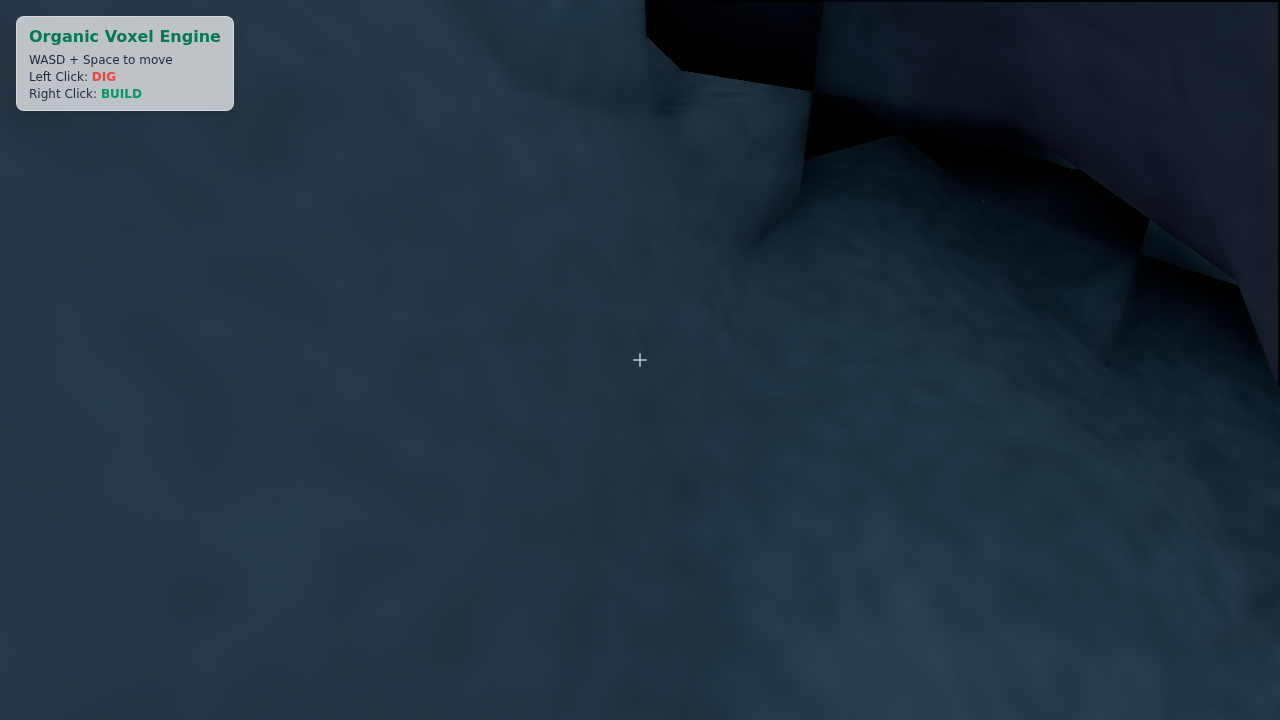
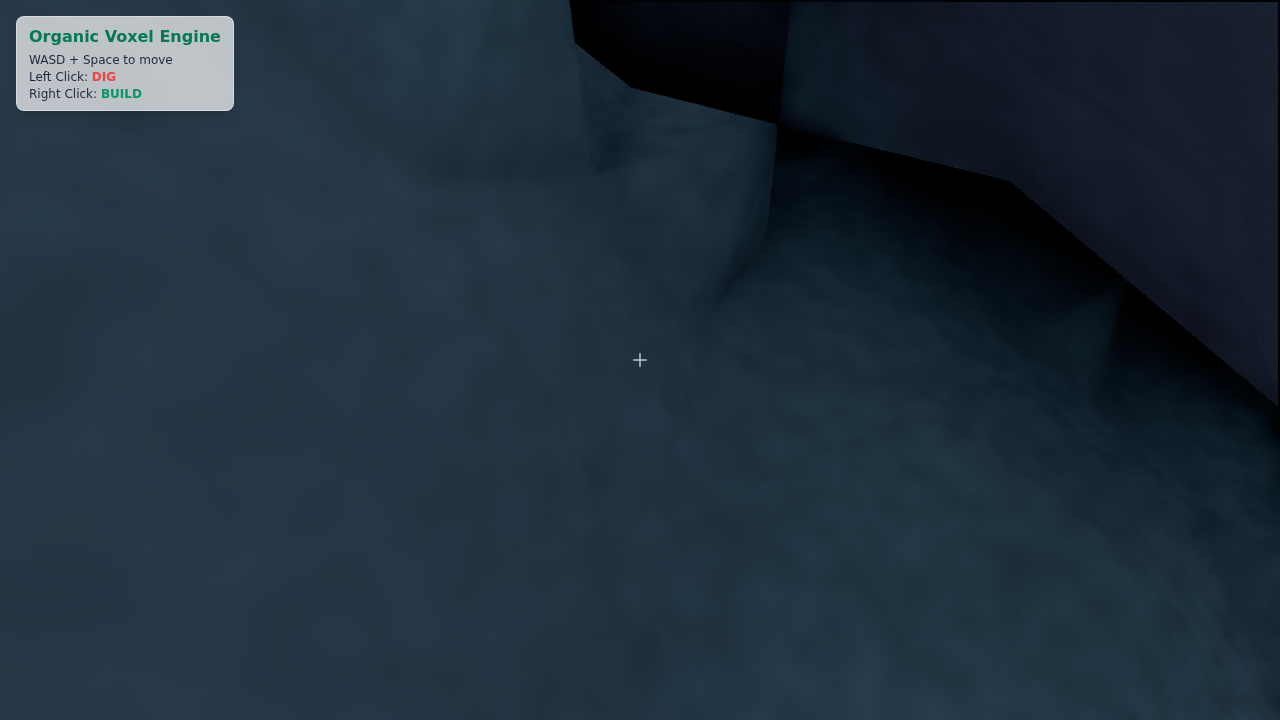
Implement Rounded Domain Warp Splatting for organic terrain transitions

diff --git a/utils/mesher.ts b/utils/mesher.ts
@@ -37,6 +37,7 @@ export function generateMesh(
   const tInds: number[] = [];
   const tMats: number[] = [];
   const tMats2: number[] = [];
+  const tMats3: number[] = [];
   const tWeights: number[] = [];
   const tNorms: number[] = [];
   const tWets: number[] = [];
@@ -151,9 +152,12 @@ export function generateMesh(
               else tNorms.push(0, 1, 0);
 
               // Material Selection (Histogram Analysis)
-              let bestMat = MaterialType.DIRT;
-              let secMat = MaterialType.AIR;
-              let blendWeight = 0.0;
+              let m1 = MaterialType.DIRT;
+              let m2 = MaterialType.AIR;
+              let m3 = MaterialType.AIR;
+              let w1 = 1.0;
+              let w2 = 0.0;
+              let w3 = 0.0;
 
               let bestWet = 0;
               let bestMoss = 0;
@@ -173,39 +177,43 @@ export function generateMesh(
                  }
               }
 
-              // Identify Top 2 Materials
-              let maxCount = 0;
-              let secCount = 0;
-              let matA = 0;
-              let matB = 0;
+              // Identify Top 3 Materials
+              let c1 = 0;
+              let c2 = 0;
+              let c3 = 0;
+              m1 = 0;
+              m2 = 0;
+              m3 = 0;
 
               for (let m = 1; m < 16; m++) {
                   const c = matCounts[m];
-                  if (c > maxCount) {
-                      // Demote current max to second
-                      secCount = maxCount;
-                      matB = matA;
-
-                      maxCount = c;
-                      matA = m;
-                  } else if (c > secCount) {
-                      secCount = c;
-                      matB = m;
+                  if (c > c1) {
+                      // Shift 1->2, 2->3
+                      c3 = c2; m3 = m2;
+                      c2 = c1; m2 = m1;
+                      c1 = c;  m1 = m;
+                  } else if (c > c2) {
+                      // Shift 2->3
+                      c3 = c2; m3 = m2;
+                      c2 = c;  m2 = m;
+                  } else if (c > c3) {
+                      c3 = c;  m3 = m;
                   }
               }
 
-              if (matA !== 0) {
-                  bestMat = matA;
-                  if (matB !== 0) {
-                      secMat = matB;
-                      const total = maxCount + secCount;
-                      if (total > 0) blendWeight = secCount / total;
+              if (m1 !== 0) {
+                  // Normalize Weights
+                  const total = c1 + c2 + c3;
+                  if (total > 0) {
+                      w1 = c1 / total;
+                      w2 = c2 / total;
+                      w3 = c3 / total;
                   }
 
-                  // Find wetness/mossiness for the dominant material
+                  // Find wetness/mossiness for the dominant material (m1)
                   for (const [val, cx, cy, cz] of candidates) {
                      const mat = getMat(material, cx, cy, cz);
-                     if (mat === bestMat && val > bestVal) {
+                     if (mat === m1 && val > bestVal) {
                          bestVal = val;
                          bestWet = getByte(wetData, cx, cy, cz);
                          bestMoss = getByte(mossData, cx, cy, cz);
@@ -214,21 +222,14 @@ export function generateMesh(
               } else {
                  // Fallback if no valid materials found (rare)
                  const mat = getMat(material, Math.round(avgX), Math.round(avgY), Math.round(avgZ));
-                 bestMat = mat || bestMat;
+                 m1 = mat || MaterialType.DIRT;
+                 // Weights remain 1,0,0
               }
 
-              // Canonical Sorting: Ensure smaller ID is always first to prevent interpolation flip-flops
-              // If bestMat (Slot 1) > secMat (Slot 2), swap them and invert the weight.
-              if (bestMat > secMat) {
-                  const tmp = bestMat;
-                  bestMat = secMat;
-                  secMat = tmp;
-                  blendWeight = 1.0 - blendWeight;
-              }
-
-              tMats.push(bestMat);
-              tMats2.push(secMat);
-              tWeights.push(blendWeight);
+              tMats.push(m1);
+              tMats2.push(m2);
+              tMats3.push(m3);
+              tWeights.push(w1, w2, w3);
               tWets.push(bestWet / 255.0);
               tMoss.push(bestMoss / 255.0);
               tVertIdx[bufIdx(x, y, z)] = (tVerts.length / 3) - 1;
@@ -313,7 +314,8 @@ export function generateMesh(
     normals: new Float32Array(tNorms),
     materials: new Float32Array(tMats),
     materials2: new Float32Array(tMats2),
-    blendWeights: new Float32Array(tWeights),
+    materials3: new Float32Array(tMats3),
+    meshWeights: new Float32Array(tWeights),
     wetness: new Float32Array(tWets),
     mossiness: new Float32Array(tMoss),
     // Return empty arrays for water to satisfy types without generating bad mesh

diff --git a/components/TriplanarMaterial.tsx b/components/TriplanarMaterial.tsx
@@ -7,13 +7,15 @@ import { noiseTexture } from '../utils/sharedResources';
 const vertexShader = `
   attribute float aVoxelMat;
   attribute float aVoxelMat2;
-  attribute float aBlend;
+  attribute float aVoxelMat3;
+  attribute vec3 aWeight;
   attribute float aVoxelWetness;
   attribute float aVoxelMossiness;
 
   flat varying float vMaterial1;
   flat varying float vMaterial2;
-  varying float vBlend;
+  flat varying float vMaterial3;
+  varying vec3 vW;
   varying float vWetness;
   varying float vMossiness;
   varying vec3 vWorldPosition;
@@ -22,7 +24,8 @@ const vertexShader = `
   void main() {
     vMaterial1 = aVoxelMat;
     vMaterial2 = aVoxelMat2;
-    vBlend = aBlend;
+    vMaterial3 = aVoxelMat3;
+    vW = aWeight;
     vWetness = aVoxelWetness;
     vMossiness = aVoxelMossiness;
     
@@ -54,7 +57,8 @@ const fragmentShader = `
 
   flat varying float vMaterial1;
   flat varying float vMaterial2;
-  varying float vBlend;
+  flat varying float vMaterial3;
+  varying vec3 vW;
   varying float vWetness;
   varying float vMossiness;
   varying vec3 vWorldPosition;
@@ -147,33 +151,37 @@ const fragmentShader = `
     vec4 nMid = getTriplanarNoise(N, 0.15);
     vec4 nHigh = getTriplanarNoise(N, 0.6);
 
+    // 1. Sample Low-Frequency "Warp" Noise
+    float warp = texture(uNoiseTexture, vWorldPosition * 0.05).r;
+
+    // 2. Distort the Linear Weights
+    vec3 warpedW = vW + (warp - 0.5) * 0.3;
+
+    // 3. Soft-Max Blending
+    vec3 softW = pow(max(warpedW, 0.0), vec3(4.0));
+
+    // 4. Renormalize
+    softW /= (softW.x + softW.y + softW.z + 0.0001);
+
+    // 5. Conditional Sampling & Blending
     MatInfo m1 = getMaterialInfo(vMaterial1, nMid, nHigh);
 
-    vec3 finalBaseCol = m1.baseCol;
-    float finalRoughness = m1.roughness;
-    float finalNoiseFactor = m1.noiseFactor;
+    vec3 finalBaseCol = m1.baseCol * softW.x;
+    float finalRoughness = m1.roughness * softW.x;
+    float finalNoiseFactor = m1.noiseFactor * softW.x;
 
-    if (vBlend > 0.01) {
+    if (softW.y > 0.001) {
         MatInfo m2 = getMaterialInfo(vMaterial2, nMid, nHigh);
+        finalBaseCol += m2.baseCol * softW.y;
+        finalRoughness += m2.roughness * softW.y;
+        finalNoiseFactor += m2.noiseFactor * softW.y;
+    }
 
-        // --- GOLDEN COMMIT LOGIC RESTORED ---
-        // Sample noise for the edge transition (using world position)
-        // High-frequency noise makes the edge jagged
-        float edgeNoise = texture(uNoiseTexture, vWorldPosition * 0.2).r;
-
-        // 1. Center blend around 0
-        float centeredBlend = vBlend - 0.5;
-
-        // 2. Add noise distortion (0.8 is the "Jaggedness" factor)
-        float distortion = (edgeNoise - 0.5) * 0.8;
-
-        // 3. Smoothstep for a sharp but organic cut
-        // This effectively "pushes" the blend to 0 or 1 based on the noise
-        float organicBlend = smoothstep(-0.05, 0.05, centeredBlend + distortion);
-
-        finalBaseCol = mix(m1.baseCol, m2.baseCol, organicBlend);
-        finalRoughness = mix(m1.roughness, m2.roughness, organicBlend);
-        finalNoiseFactor = mix(m1.noiseFactor, m2.noiseFactor, organicBlend);
+    if (softW.z > 0.001) {
+        MatInfo m3 = getMaterialInfo(vMaterial3, nMid, nHigh);
+        finalBaseCol += m3.baseCol * softW.z;
+        finalRoughness += m3.roughness * softW.z;
+        finalNoiseFactor += m3.noiseFactor * softW.z;
     }
 
     float intensity = 0.6 + 0.6 * finalNoiseFactor;

diff --git a/components/VoxelTerrain.tsx b/components/VoxelTerrain.tsx
@@ -25,7 +25,8 @@ interface ChunkState {
   meshIndices: Uint32Array;
   meshMaterials: Float32Array;
   meshMaterials2: Float32Array;
-  meshBlendWeights: Float32Array;
+  meshMaterials3: Float32Array;
+  meshWeights: Float32Array;
   meshNormals: Float32Array;
   meshWetness: Float32Array;
   meshMossiness: Float32Array;
@@ -97,10 +98,16 @@ const ChunkMesh: React.FC<{ chunk: ChunkState; sunDirection?: THREE.Vector3 }> =
         geom.setAttribute('aVoxelMat2', new THREE.BufferAttribute(new Float32Array(vertexCount), 1));
     }
 
-    if (chunk.meshBlendWeights && chunk.meshBlendWeights.length === vertexCount) {
-        geom.setAttribute('aBlend', new THREE.BufferAttribute(chunk.meshBlendWeights, 1));
+    if (chunk.meshMaterials3 && chunk.meshMaterials3.length === vertexCount) {
+        geom.setAttribute('aVoxelMat3', new THREE.BufferAttribute(chunk.meshMaterials3, 1));
     } else {
-        geom.setAttribute('aBlend', new THREE.BufferAttribute(new Float32Array(vertexCount), 1));
+        geom.setAttribute('aVoxelMat3', new THREE.BufferAttribute(new Float32Array(vertexCount), 1));
+    }
+
+    if (chunk.meshWeights && chunk.meshWeights.length === vertexCount * 3) {
+        geom.setAttribute('aWeight', new THREE.BufferAttribute(chunk.meshWeights, 3));
+    } else {
+        geom.setAttribute('aWeight', new THREE.BufferAttribute(new Float32Array(vertexCount * 3), 3));
     }
 
     // Fix: Always provide wetness/mossiness attributes, even if 0, to satisfy shader expectations
@@ -128,7 +135,7 @@ const ChunkMesh: React.FC<{ chunk: ChunkState; sunDirection?: THREE.Vector3 }> =
     geom.computeBoundingSphere();
 
     return geom;
-  }, [chunk.meshPositions, chunk.meshIndices, chunk.meshMaterials, chunk.meshMaterials2, chunk.meshBlendWeights, chunk.meshNormals, chunk.meshWetness, chunk.meshMossiness, chunk.visualVersion]);
+  }, [chunk.meshPositions, chunk.meshIndices, chunk.meshMaterials, chunk.meshMaterials2, chunk.meshMaterials3, chunk.meshWeights, chunk.meshNormals, chunk.meshWetness, chunk.meshMossiness, chunk.visualVersion]);
 
   const waterGeometry = useMemo(() => {
     if (!chunk.meshWaterPositions?.length || !chunk.meshWaterIndices?.length) return null;
@@ -317,7 +324,7 @@ export const VoxelTerrain: React.FC<VoxelTerrainProps> = ({ action, isInteractin
         chunksRef.current[key] = newChunk;
         setChunks(prev => ({ ...prev, [key]: newChunk }));
       } else if (type === 'REMESHED') {
-        const { key, meshPositions, meshIndices, meshMaterials, meshMaterials2, meshBlendWeights, meshNormals, meshWetness, meshMossiness, meshWaterPositions, meshWaterIndices, meshWaterNormals } = payload;
+        const { key, meshPositions, meshIndices, meshMaterials, meshMaterials2, meshMaterials3, meshWeights, meshNormals, meshWetness, meshMossiness, meshWaterPositions, meshWaterIndices, meshWaterNormals } = payload;
         const current = chunksRef.current[key];
         if (current) {
           const updatedChunk = {
@@ -328,7 +335,8 @@ export const VoxelTerrain: React.FC<VoxelTerrainProps> = ({ action, isInteractin
             meshIndices,
             meshMaterials,
             meshMaterials2,
-            meshBlendWeights,
+            meshMaterials3,
+            meshWeights,
             meshNormals,
             meshWetness: meshWetness || current.meshWetness, // Fallback if missing
             meshMossiness: meshMossiness || current.meshMossiness, // Fallback if missing

diff --git a/workers/terrain.worker.ts b/workers/terrain.worker.ts
@@ -31,7 +31,8 @@ ctx.onmessage = (e: MessageEvent) => {
             meshIndices: mesh.indices,
             meshMaterials: mesh.materials,
             meshMaterials2: mesh.materials2,
-            meshBlendWeights: mesh.blendWeights,
+            meshMaterials3: mesh.materials3,
+            meshWeights: mesh.meshWeights,
             meshNormals: mesh.normals,
             meshWetness: mesh.wetness,
             meshMossiness: mesh.mossiness,
@@ -51,7 +52,8 @@ ctx.onmessage = (e: MessageEvent) => {
             mesh.indices.buffer,
             mesh.materials.buffer,
             mesh.materials2.buffer,
-            mesh.blendWeights.buffer,
+            mesh.materials3.buffer,
+            mesh.meshWeights.buffer,
             mesh.normals.buffer,
             mesh.wetness.buffer,
             mesh.mossiness.buffer,
@@ -87,7 +89,8 @@ ctx.onmessage = (e: MessageEvent) => {
             meshIndices: mesh.indices,
             meshMaterials: mesh.materials,
             meshMaterials2: mesh.materials2,
-            meshBlendWeights: mesh.blendWeights,
+            meshMaterials3: mesh.materials3,
+            meshWeights: mesh.meshWeights,
             meshNormals: mesh.normals,
             meshWetness: mesh.wetness,
             meshMossiness: mesh.mossiness,
@@ -101,7 +104,8 @@ ctx.onmessage = (e: MessageEvent) => {
             mesh.indices.buffer,
             mesh.materials.buffer,
             mesh.materials2.buffer,
-            mesh.blendWeights.buffer,
+            mesh.materials3.buffer,
+            mesh.meshWeights.buffer,
             mesh.normals.buffer,
             mesh.wetness.buffer,
             mesh.mossiness.buffer,

diff --git a/types.ts b/types.ts
@@ -51,7 +51,8 @@ export interface MeshData {
   normals: Float32Array;
   materials: Float32Array; // Attribute to pass to shader
   materials2: Float32Array; // Secondary Material ID (Sub-dominant)
-  blendWeights: Float32Array; // 0.0 to 1.0 factor (Amount of Secondary)
+  materials3: Float32Array; // Tertiary Material ID
+  meshWeights: Float32Array; // vec3 weights (r,g,b)
   wetness: Float32Array;   // Attribute for wetness
   mossiness: Float32Array; // Attribute for mossiness
 
